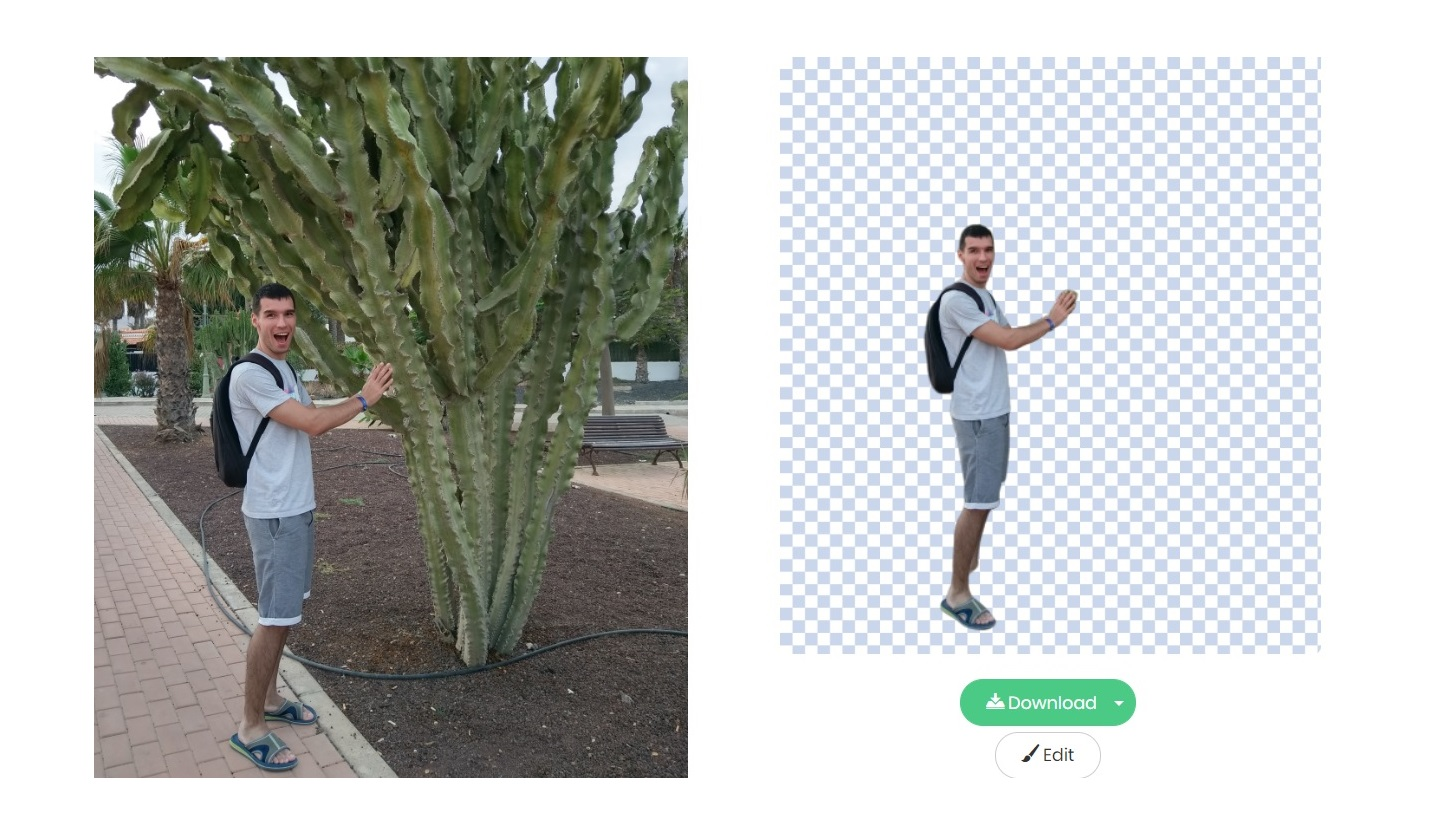
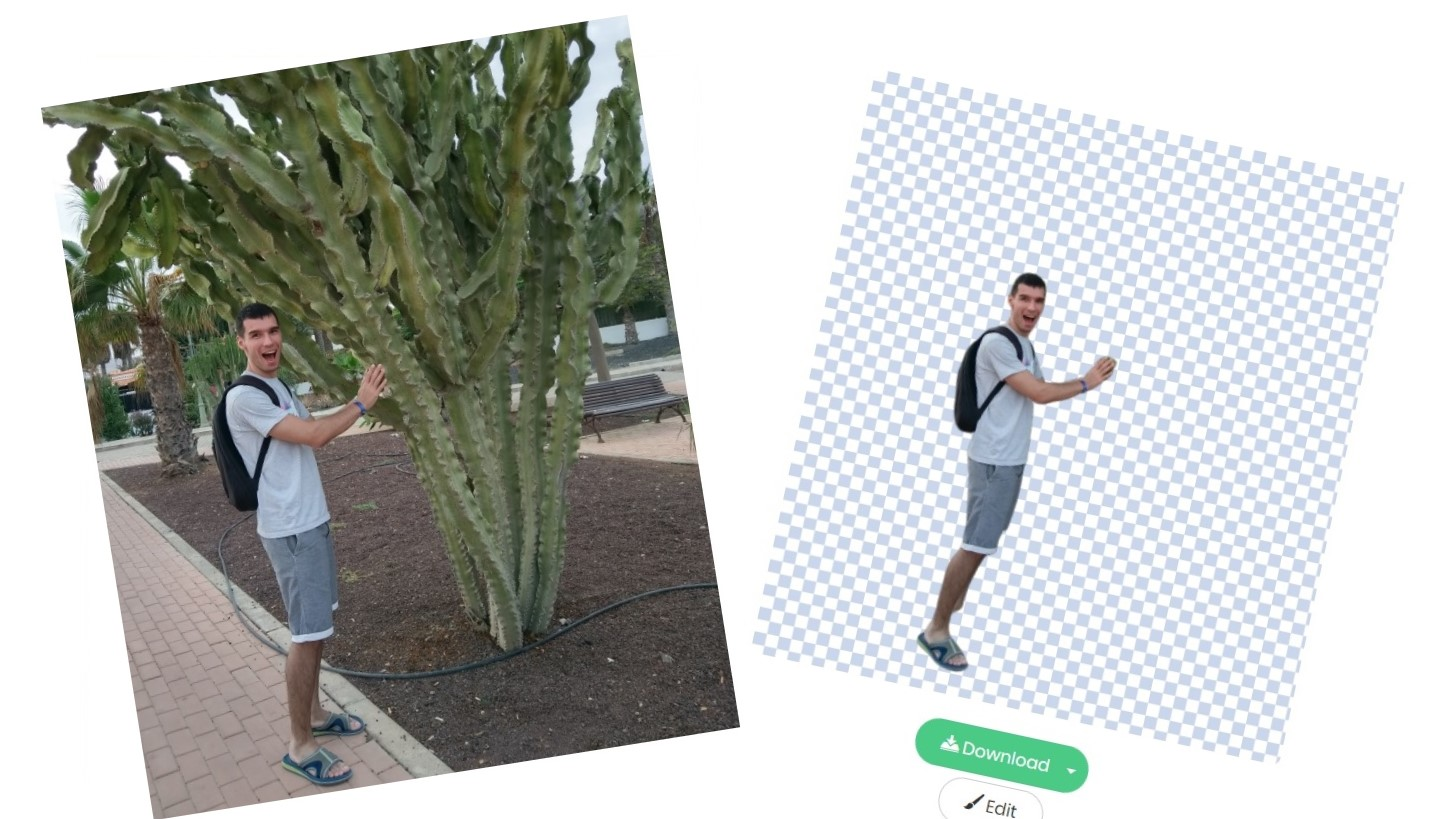
edit files, add new style

diff --git a/blog.html b/blog.html
@@ -38,7 +38,7 @@
         <section class="blogArticle">
             <article class='no1, clearfix'>
                 <h2>#1 Usuwanie tła/wycinanie postaci ze zdjęcia.</h2>
-                <img src="img/removeBg1.jpg" alt="wycinanie tła ze zdjęcia">
+                <img src="img/removeBg.jpg" alt="wycinanie tła ze zdjęcia">
                 <p>Dla grafika to chwila pracy, jednak dla osób niezwiązanych z obróbką zdjęć, może być to sporym
                     wyzwaniem. Programów do wyboru jest wiele, pobranie, instalacja, do tego jeszcze dochodzi nauka ich
                     obsługi -

diff --git a/css/style.css b/css/style.css
@@ -1181,5 +1181,5 @@ div.blog section.blogArticle img {
 
 #maxWidth {
     width: 100%;
-    padding-right: 20px;
+    padding: 20px 20px 5px 20px;
 }
